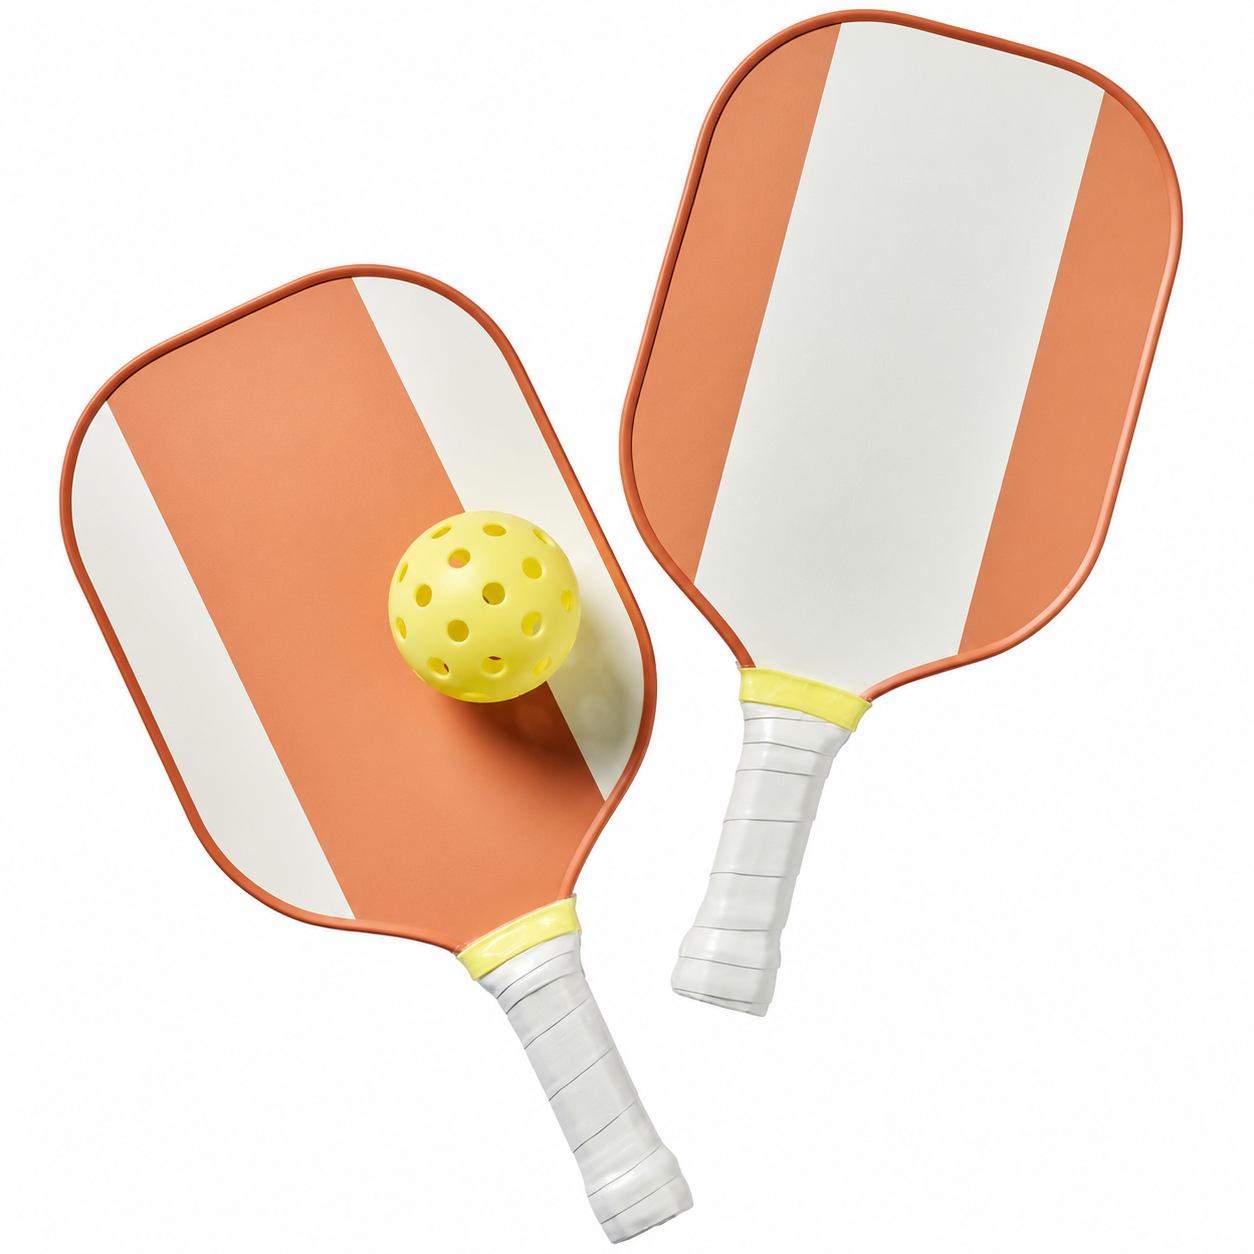
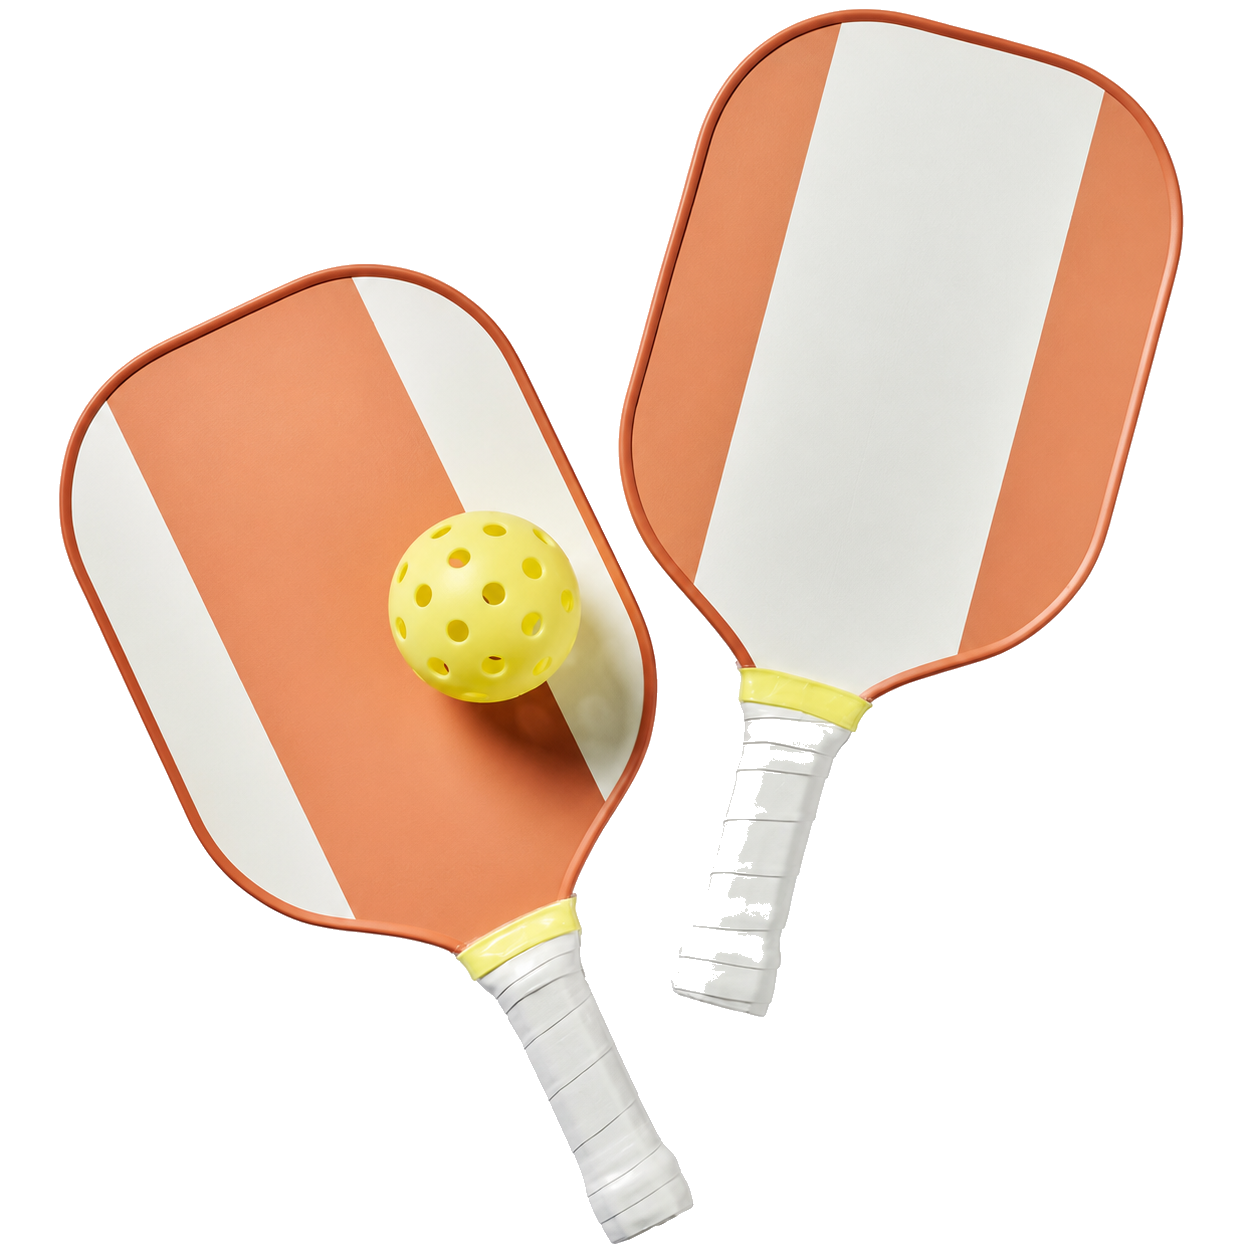
Pickleball: left-align illustration + remove white background from PNG

Changed region(s): [[0.5287, 0.5598, 0.6531, 0.8086]]

diff --git a/Travel-Website/Trip-Essentials/Pickleball.html b/Travel-Website/Trip-Essentials/Pickleball.html
@@ -207,8 +207,8 @@ html { scroll-behavior: smooth; }</style>
     <h1>Pickleball Hotspots</h1>
   </div>
   <span class="updated-stamp">Updated July 2026</span>
-  <div style="text-align:center;margin:12px 0 16px;">
-    <img src="../Images/pickleball.png" alt="" aria-hidden="true" style="height:140px;width:auto;display:inline-block;">
+  <div style="margin:12px 0 16px;">
+    <img src="../Images/pickleball.png" alt="" aria-hidden="true" style="height:140px;width:auto;display:block;">
   </div>
 
   <nav class="pkl-nav" aria-label="Jump to section">